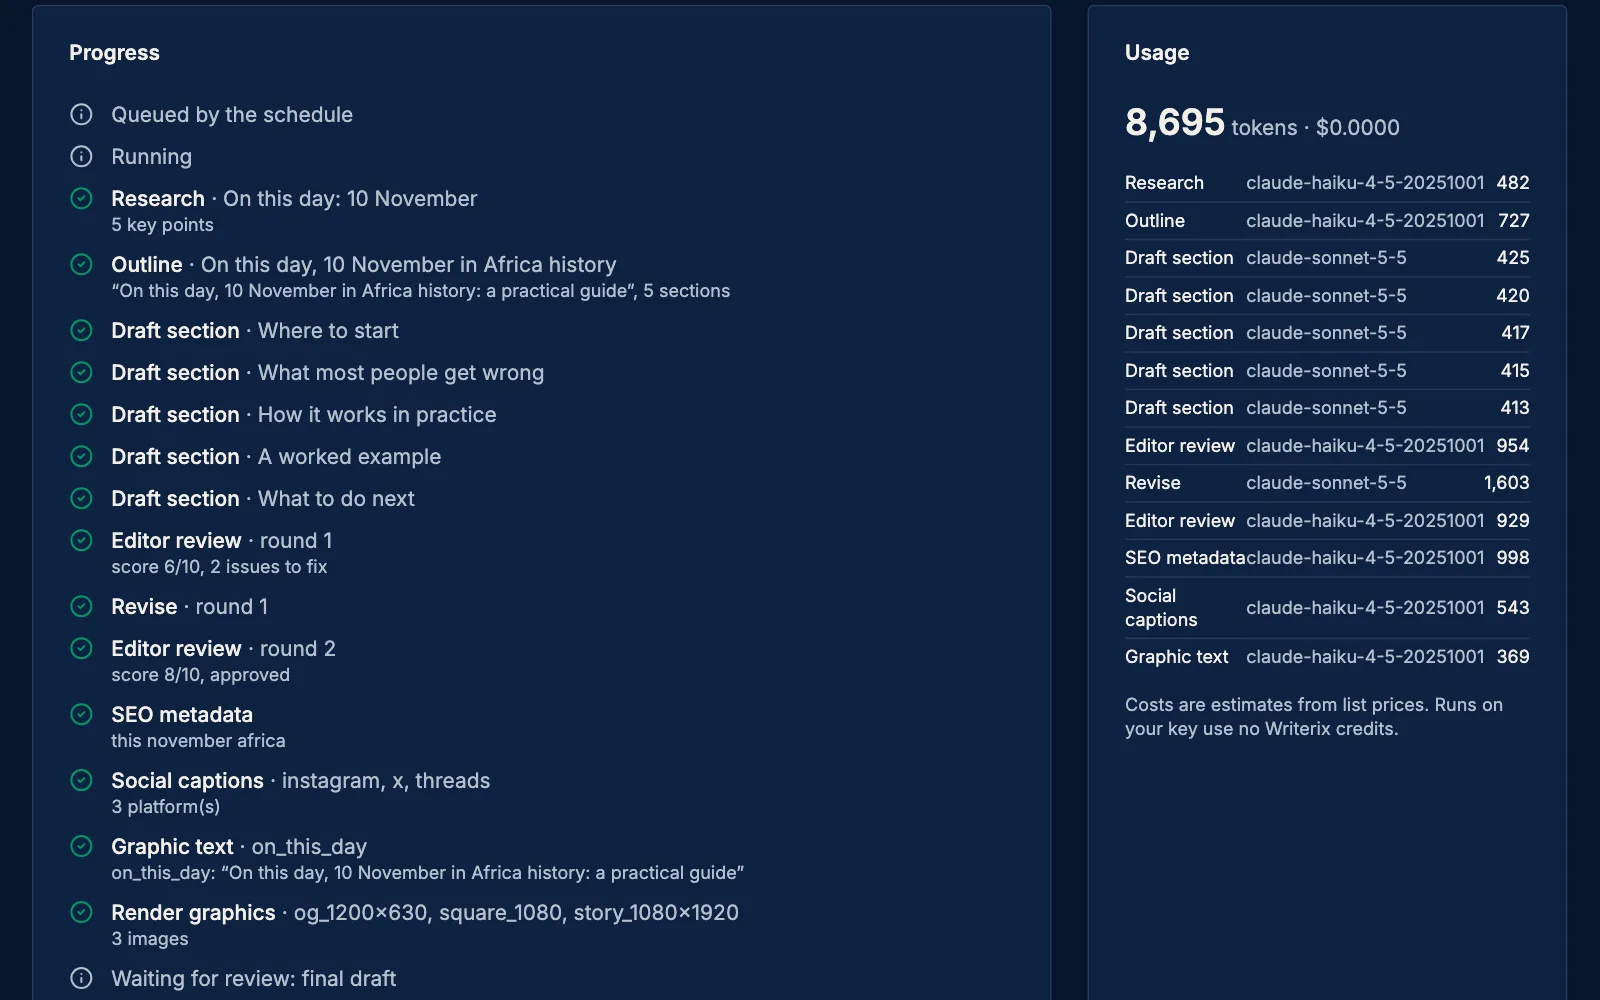
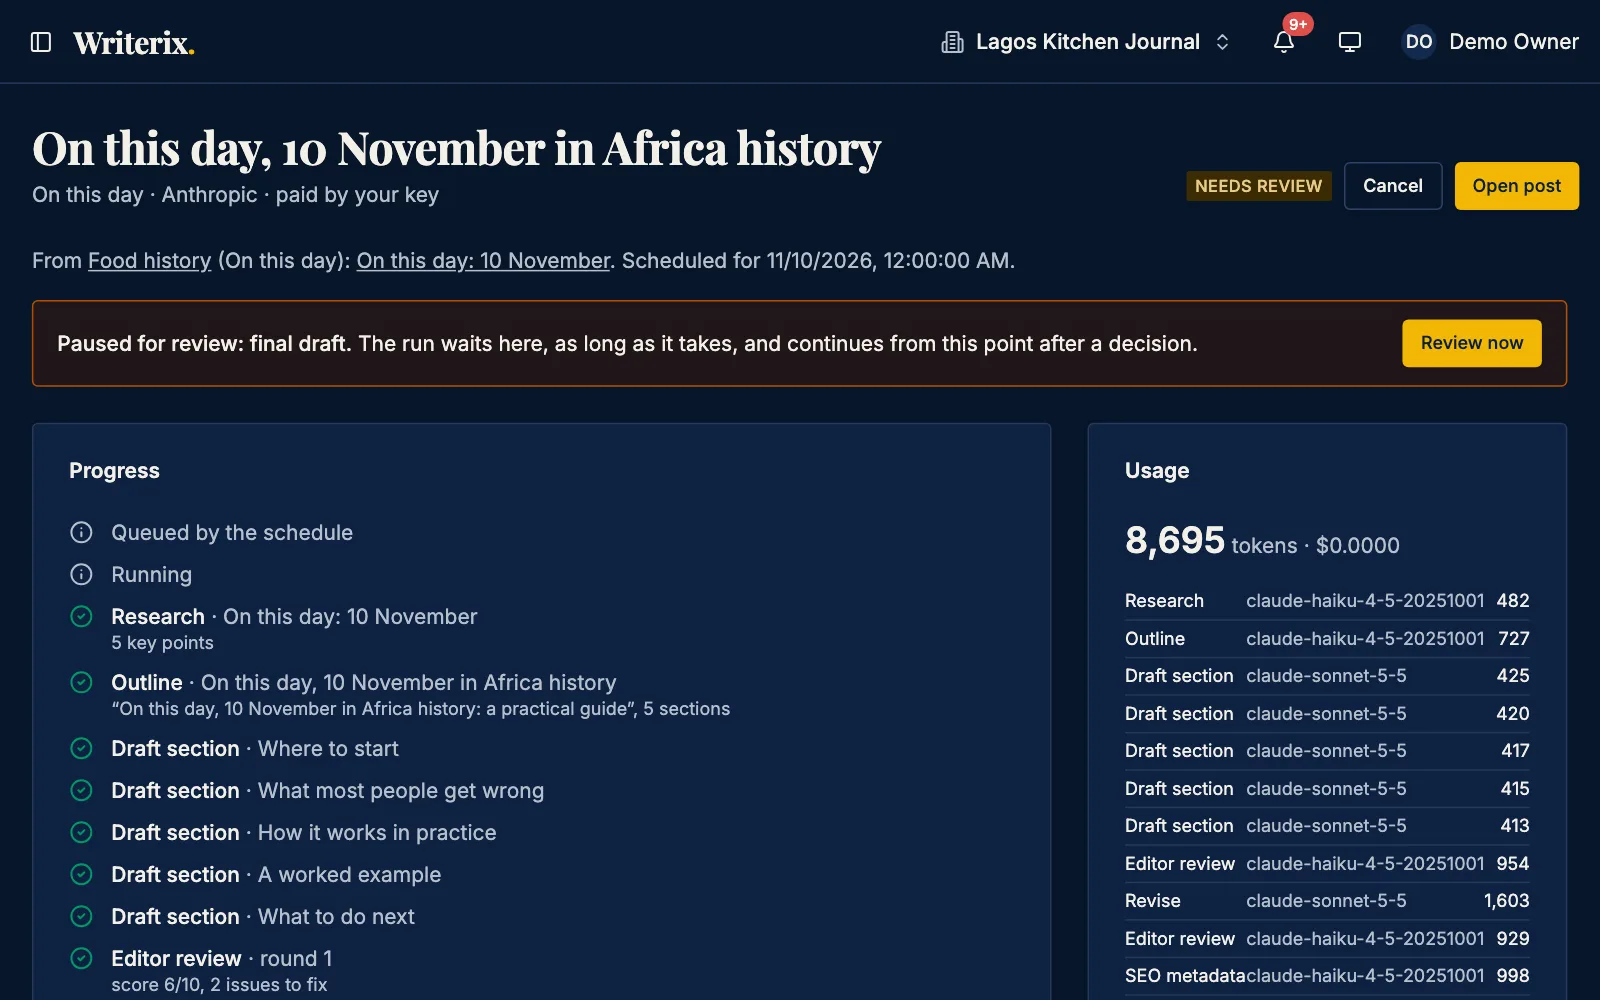
feat: include app top bar in WriterIX and Veci CRM covers
Start both zoomed crops at the app header so the product name,
workspace switcher and user menu are visible. WriterIX is laid out at
1320px so its top bar fits the crop; its step list now ends at the
first editor review.

Changed region(s): [[0.0, 0.0, 1.0, 0.992]]

diff --git a/data/projects.ts b/data/projects.ts
@@ -314,7 +314,7 @@ export const projects: Project[] = [
     // from a local install seeded with fictional demo data, cropped to ~1.5x.
     cover: {
       src: '/images/projects/veci-crm/cover.webp',
-      alt: 'Veci CRM dashboard, close up: KPI tiles for active projects, open pipeline value ($13,500), won this period ($7,500), win rate (50%), lead conversion rate (33%) and upcoming bookings, quick-action buttons for a new contact, lead, deal or project, and a needs-attention deal list',
+      alt: 'Veci CRM dashboard, close up: the app top bar with the demo workspace and user, then KPI tiles for active projects, open pipeline value ($13,500), won this period ($7,500), win rate (50%), lead conversion rate (33%) and upcoming bookings, quick-action buttons for a new contact, lead, deal or project, and a needs-attention deal list',
       width: 1600,
       height: 1000,
     },
@@ -362,7 +362,7 @@ export const projects: Project[] = [
     // from a local demo-mode stack (AI calls simulated), cropped to ~1.5x.
     cover: {
       src: '/images/projects/writerix/cover.webp',
-      alt: 'WriterIX run detail, close up: a progress list of pipeline steps (research, outline, five section drafts, two editor review rounds with scores, SEO metadata, social captions, graphic text and rendered graphics, then waiting for final-draft review) beside a usage panel showing 8,695 tokens with the Claude model and token count for each step',
+      alt: 'WriterIX run detail, close up: the app top bar with the demo workspace and user, the run title "On this day, 10 November in Africa history" marked Needs review, a "Paused for review: final draft" banner, and a progress list of pipeline steps (research, outline, section drafts, editor review) beside a usage panel showing 8,695 tokens with the Claude model and token count for each step',
       width: 1600,
       height: 1000,
     },
